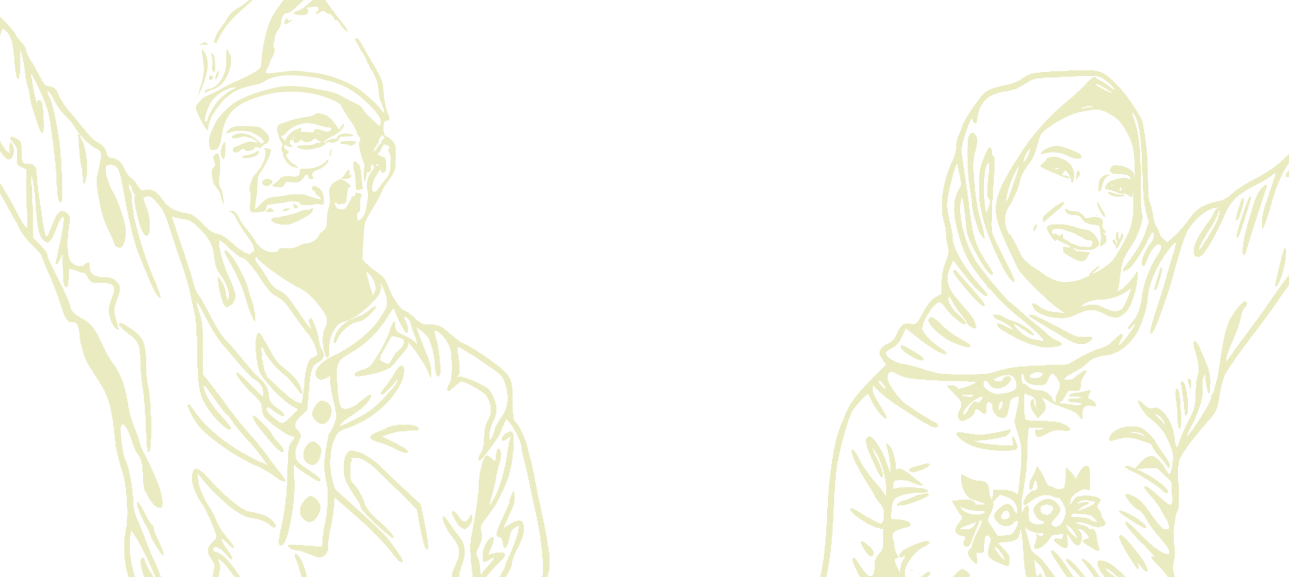
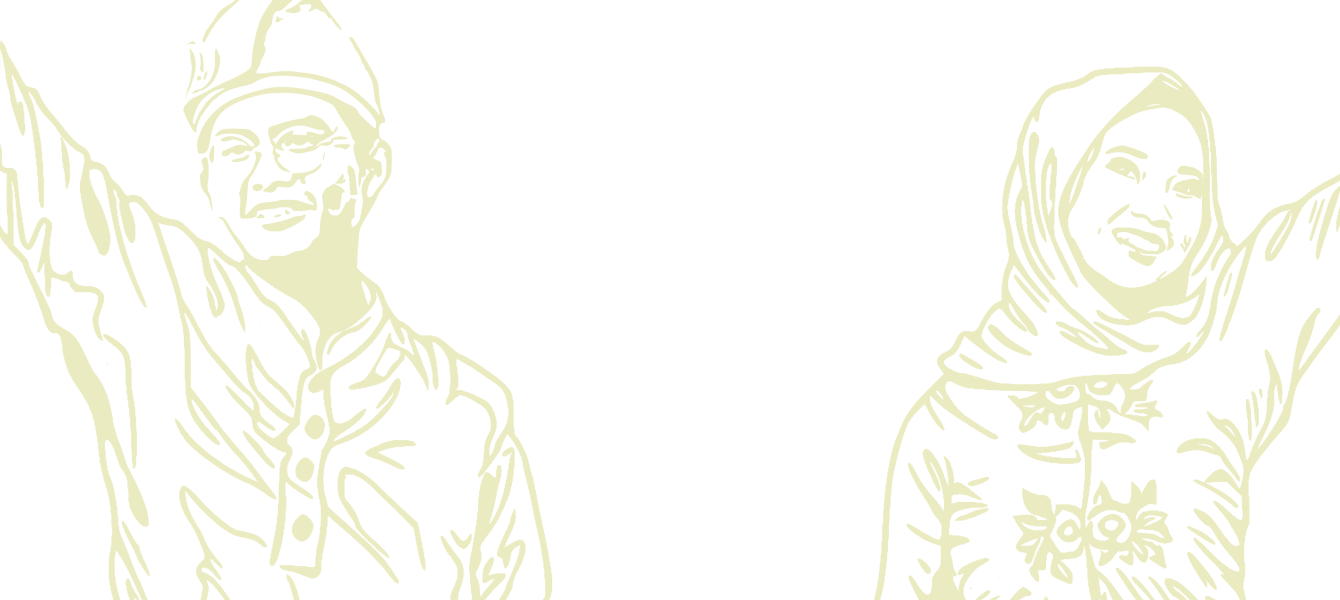
rework landing page

Changed region(s): [[0.0, 0.0, 0.4344, 1.0], [0.6206, 0.0936, 1.0, 1.0]]

diff --git a/components/pages/home/LandingPage.tsx b/components/pages/home/LandingPage.tsx
@@ -6,12 +6,12 @@ const LandingPage = ({ ...stackProps }: StackProps) => {
   return (
     <BoxTransition   w="90%">
       <Stack bg="white"
-        h="580px"
+        h="600px"
         borderRadius="20px"
         display="flex"
         justifyContent="center"
         alignItems="center"
-        backgroundImage="/mg6.png" 
+        backgroundImage="/background_landingpage.png" 
         backgroundSize="100%" 
         backgroundPosition="center"
       >
@@ -19,11 +19,11 @@ const LandingPage = ({ ...stackProps }: StackProps) => {
           style={{ 
             fontFamily: "NewSpiritRegular", 
             marginBottom: '15px',
-            marginTop: '50px', 
+            marginTop: '28px', 
             fontSize: "25px",
             display: 'inline-block', 
         }}>The wedding of </Text>
-        <Text textAlign="center" fontSize="55px" color="#183641"
+        <Text textAlign="center" fontSize="60px" color="#183641"
           style={{ 
             fontFamily: "NewSpiritBoldItalic"
         }}>Zafira</Text>
@@ -31,10 +31,10 @@ const LandingPage = ({ ...stackProps }: StackProps) => {
           <span
               style={{
               display: 'inline-block',
-              width: '120px',       // Adjust line length
+              width: '130px',       // Adjust line length
               borderBottom: '3px solid #f2bf4b', // Left line
               marginBottom: '15px',
-              marginRight: '15px' 
+              marginRight: '20px' 
               }}
           />
           <span style={{ 
@@ -47,14 +47,14 @@ const LandingPage = ({ ...stackProps }: StackProps) => {
           <span
               style={{
               display: 'inline-block',
-              width: '120px',       // Adjust line length
+              width: '130px',       // Adjust line length
               borderBottom: '3px solid #f2bf4b', // Left line
               marginBottom: '15px',
-              marginLeft: '15px' 
+              marginLeft: '20px' 
               }}
           />
         </Box>
-        <Text textAlign="center" fontSize="55px" color="#183641"
+        <Text textAlign="center" fontSize="60px" color="#183641"
           style={{ 
             fontFamily: "NewSpiritBoldItalic"
         }}>Danial
